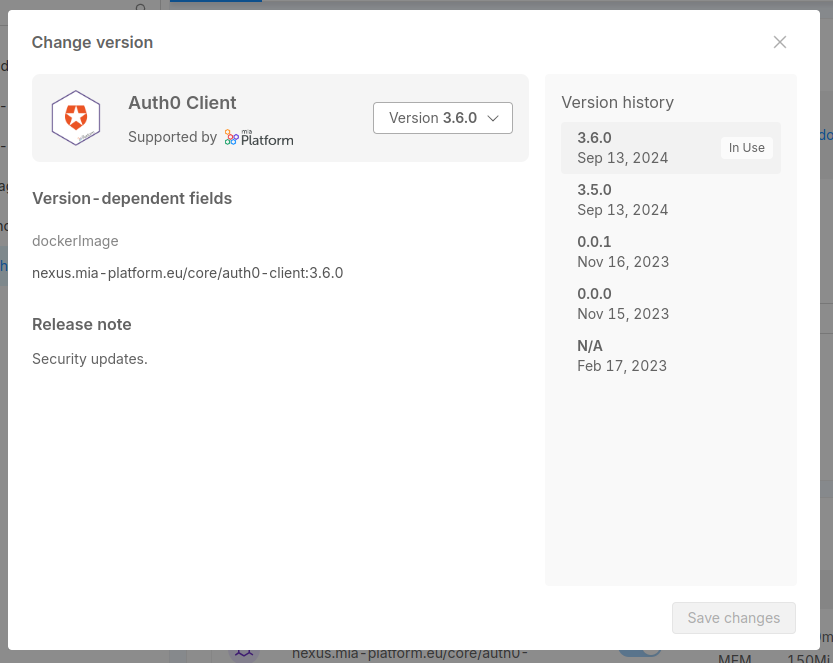
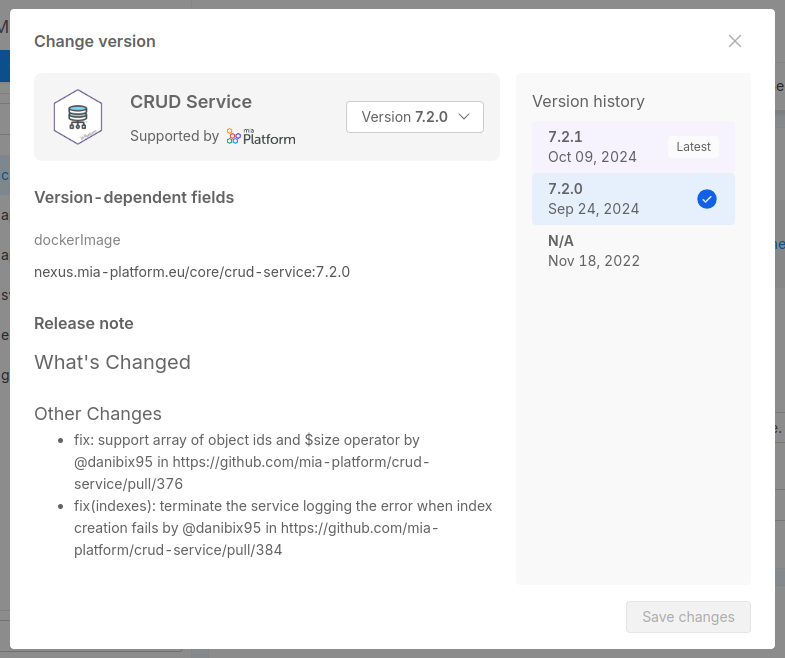
docs: marketplace versioning and latest (#1738)
* feat: update marketplace section about the versioning and latest notifications

* fix: typos and errors

* feat: update services and custom-resources page

* fix: updated imgs in api-design

* fix: updated imgs in custom-resources

* Apply suggestions from code review

* fix: applied suggestions from code review

* updated custom-resources images

* Update docs/marketplace/add_to_marketplace/add_item_by_type/add_plugin.md

---------

diff --git a/docs/marketplace/add_to_marketplace/add_item_by_type/add_plugin.md b/docs/marketplace/add_to_marketplace/add_item_by_type/add_plugin.md
@@ -63,7 +63,6 @@ Here below are listed all the properties that you can provide for each microserv
   - **`readOnly`** (default: false): a boolean that represents if you can change the value of the variable through the Console
   - **`description`** (optional): a brief description of the variable
   - **`managedBy`** (optional): a string that represents the Console section that manages the variable. For now, it can be empty or `fast-data`. It only works used in combination with the `readOnly` property set to `true`.
-    
   - **`valueType`** (default: `plain`): the field controls whether the value of the variable is provided by the user or by a Kubernetes resource; at the moment, *Plain Text*, *Config Maps*, *Secrets* and *Downward API* are supported.
   
   When `valueType: plain`, the following field is **required**:
@@ -300,7 +299,7 @@ You should receive a success response similar to this one:
 
   OBJECT ID                 ITEM ID             STATUS   
 
-  66423781fdd3d6dd3ca62b7b  mongodb-reader  Created 
+  66423781fdd3d6dd3ca62b7b  mongodb-reader      Created 
 ```
 
 You just created your plugin, which is now available on your `Company Marketplace`.
@@ -309,7 +308,16 @@ You just created your plugin, which is now available on your `Company Marketplac
 
 You can update a Custom Resource Marketplace item by using the same `miactl marketplace apply` explained before, by including an updated file (either in `json` or `yaml` format).
 
-While non-versioned items can be modified in place without any limitation (except for `itemId` and `tenantId` that identifies the resource to update), versioned Marketplace Custom Resource have some fields that cannot be modified. For more information, refer to the [dedicated section on the "Create your Company Marketplace" page](/marketplace/add_to_marketplace/create_your_company_marketplace.md#editing-a-versioned-resource).
+While non-versioned items can be modified in place without any limitation (except for `itemId` and `tenantId` that identifies the resource to update), versioned Marketplace Custom Resource have some fields that cannot be modified.
+
+If you want to do so, you must create a new version of the resource: for more information, refer to the [dedicated section on the _Create your Company Marketplace_ page](/marketplace/add_to_marketplace/create_your_company_marketplace.md#how-to-create-a-new-version-of-your-resource).
 
 Also remember that versioned elements does not allow the update of the `dockerImage` field, since the value is automatically tied with the released version: if you need to change the Docker Image, you should create a new version of the resource.
+
+:::info
+Versions are not mandatory but highly recommended to avoid overwriting existing resources.
+
+Also, it is required to follow the [Semantic Versioning](https://semver.org/) convention when creating new versions: this convention is used to group the different versions of the same marketplace items and determine the _latest_ version that will be used by the Console to help the user to determine the best version to use and be notified of further updates.
+:::
+
 Of course you can do that always with `miactl marketplace apply` by using the same `itemId` and the same `tenantId` but with a new `name` inside the `version` field.

diff --git a/docs/marketplace/add_to_marketplace/add_item_by_type/add_custom_resource.md b/docs/marketplace/add_to_marketplace/add_item_by_type/add_custom_resource.md
@@ -13,7 +13,7 @@ Custom Resources are basically defined by two fields:
 
 A Custom Resource can be created from scratch or from an existing Marketplace item and added to your Project. Custom Resources on the Marketplace follow the base Marketplace item schema defined in the ["Create your Company Marketplace" page](/marketplace/add_to_marketplace/create_your_company_marketplace.md#how-to-configure-a-new-item), with the _type_ field set to `custom-resource`.
 
-Custom resource items in the Marketplace also support _versioning_, allowing you to update a resource without overwriting its previous versions. 
+Custom resource items in the Marketplace also support _versioning_, allowing you to update a resource without overwriting its previous versions.
 
 ## Custom Resource definition
 
@@ -291,7 +291,13 @@ resources:
 Please note that:
 
 - the `type: custom-resource` is required to specify that this resource is a Custom Resource
-- the `version` property is included, to define this item as a version `1.0.0` with a specific release note: versions are not mandatory but highly suggested to avoid overwriting existing resources.
+- the `version` property is required and must be composed by its _name_, e.g. to define this item as a version `1.0.0`, and the _releaseNote_ to highlight the latest updates of said release
+
+:::info
+Versions are not mandatory but highly recommended to avoid overwriting existing resources.
+
+Also, it is required to follow the [Semantic Versioning](https://semver.org/) convention when creating new versions: this convention is used to group the different versions of the same marketplace items and determine the _latest_ version that will be used by the Console to help the user to determine the best version to use and be notified of further updates.
+:::
 
 ### Publish the new Custom Resource
 
@@ -317,9 +323,10 @@ You just created your custom resource, which is now available on your `Company M
 
 You can update a Custom Resource Marketplace item by using the same `miactl marketplace apply` command explained before, by including an updated file (either in `json` or `yaml` format).
 
-When updating a Custom Resource, it is recommended to create a new version of the Marketplace item to avoid overwriting the existing one. The new version should contain the updated resource definition and a release note detailing the changes.
+When updating a Custom Resource, it is recommended to create a new version of the Marketplace item to avoid overwriting the existing one.
+The new version should contain the updated resource definition and a release note detailing the changes.
 
-In case you are trying to update a versioned Marketplace Custom Resource, remember that only few fields can be modified.
+In case you are trying to overwrite a versioned Marketplace Custom Resource, remember that only few fields can be modified.
 For more information, refer to the [dedicated section on the "Create your Company Marketplace" page](/marketplace/add_to_marketplace/create_your_company_marketplace.md#editing-a-versioned-resource).
 
 #### Update non-versioned Custom Resources

diff --git a/docs/marketplace/add_to_marketplace/create_your_company_marketplace.md b/docs/marketplace/add_to_marketplace/create_your_company_marketplace.md
@@ -139,6 +139,22 @@ Also, to provide continuity to the definition of the other versions of the same 
 
 You can create a new version of a Marketplace item either if there is already that resource on the Marketplace without a version. In that case the non-versioned item will be still available in the Console, where will be shown with a *N/A* value for the version.
 
+If there are multiple version of the same item, one of these versions will be used as *latest version*.
+This is the version that will be used as a reference when you will create a new microservice or a new resource choosing the item from the Marketplace.
+
+The latest version is going to be the one with the highest version, according to the [Semantic Versioning rules](https://semver.org/).
+We suggest to follow these guidelines when assigning a version to your item, in order to easily determine which one is the latest.
+
+ ![List of marketplace versions](./img/version_list.png)
+
+::: info
+If you have the *Marketplace Notifications* [feature preview](/console/project-configuration/project-settings.md#feature-preview) enabled you will be informed if one or more of your microservices attached to a Marketplace item have updates.
+
+You can find a list of all the updates at the bottom of the sidebar menu with the list of all your services, as well as inside the detail page of the service that can be updated.
+
+ ![Design page with notifications of new Marketplace versions](./img/versions_notifications.png)
+:::
+
 #### Editing a versioned resource
 
 Versioned resources are defined to be immutable, to avoid that updates might overwrite the previous configuration. However, it is possible to edit in case we need to update changes to their metadata (e.g. the release note or the description of the marketplace item - because of typos or other reasons).
@@ -150,11 +166,12 @@ Editing a versioned resource is possible via `miactl`, however the following fie
 - the `name` property inside `version` object
 - the `resources` property, that includes the specific resource definition
 
-Since marketplace items are defined by the `itemId`, the `tenantId` and the `version` name, attempt to modifying one of these three properties will cause the creation of a completely new marketplace item, completely separated from the previous one.
+Since marketplace items are defined by the `itemId`, the `tenantId` and the `version` name, attempt to modifying one of these three properties will cause the creation of a new marketplace item, completely separated from the previous one.
 
 Attemping to modify the `resources` property will cause an error, and the item will not be updated. In that case, you need to create a new version of the item.
 
 Also, the following fields are editable only in case the permission `marketplace.root.manage` has been granted to the user:
+
 - `supportedBy`
 - `supportedByImage`
 - `publishOnMiaDocumentation`

diff --git a/docs/marketplace/add_to_marketplace/manage_marketplace_items.md b/docs/marketplace/add_to_marketplace/manage_marketplace_items.md
@@ -218,7 +218,6 @@ To highlight the potentialities of `Acme.Js` and introduce your users to the new
 
 </details>
 
-
 Notice that the `image` and `supportedByImage` objects are populated with local paths to images: make sure the images exist and that their path is correct.
 
 To create the items on the Marketplace, open up a terminal in directory where the files are placed and run this command:
@@ -271,9 +270,7 @@ Further information about the `apply` command can be found in the [dedicated doc
 ### Update an item
 
 :::info
-
 You need to have *Company Owner* or *Project Administrator* role at Company level to perform this action
-
 :::
 
 Imagine now that you noticed that the description of "My Awesome Service" is not correct and you want to change it.
@@ -283,6 +280,7 @@ First of all, download and save the latest version of the item configuration:
 ```sh
 miactl marketplace get ITEM_ID > myAwesomeService.json
 ```
+
 where `ITEM_ID` is an alphanumerical id of the Marketplace item.  
 If you don't know the item id, use the `miactl marketplace list` command to list all the Marketplace Items. You can easily locate the one of interest by looking for its name.
 
@@ -310,6 +308,16 @@ You will see the outcome of the operation in the command output:
 ```
 
 The changes are now reflected to the Console.
+
+### Update of versioned items
+
+Marketplace items of type *Plugin* and *Custom Resources* require a *version* object to determine the differences of the plugin definition over time.
+In case you need to update the definition, you can update a versioned item only if you need to change some base fields (more details on the [Create your Company Marketplace](/marketplace/add_to_marketplace/create_your_company_marketplace.md) page), otherwise you can do so by creating a new version.
+
+You can create a new version of the plugin via [miactl](/cli/miactl/10_overview.md) by simply executing the [`apply`](/cli/miactl/30_commands.md#apply) command, in the same way as explained above, ensuring that the `itemId` and `tenantId` are the same but with a new version, and of course the `resource` object updated.
+
+As explained in the [Create your Company Marketplace](/marketplace/add_to_marketplace/create_your_company_marketplace.md) page, we suggest to follow the [Semantic Versioning](https://semver.org/) convention when defining the version of your item.
+This will help you to keep track of the changes you made to the item over time, and help you understand the best version to use when configuring your project.
 
 ### Delete an item
 

diff --git a/docs/console/design-your-projects/custom-resources/custom-resources.md b/docs/console/design-your-projects/custom-resources/custom-resources.md
@@ -81,6 +81,8 @@ A modal window will open, where you can see the available versions of the Custom
 
 Inside the modal you can also see the `apiVersion` and the `kind` of the Custom Resource of the selected version, to give you a better idea of the configuration you are selecting.
 
+A small tag will also inform you which is the *latest* version of the plugin, the latest stable version released.
+
 In case you need to update the `apiVersion` and the `kind` fields manually, completely changing the configuration of the Custom Resource, you can do so by clicking the *Detach from Marketplace* button on the menu:this will detach the Custom Resource from the original Marketplace item, causing the resource to be fully editable.
 However, you will not be able to use the Marketplace versioning feature anymore, and you will not be notified by any update made by the Marketplace creator of that item.
 
@@ -89,6 +91,14 @@ A version labelled with *N/A* refers to a Marketplace item that did not include 
 This means that it has been created before the support of versioning in the Marketplace was implemented.
 
 However, it does not mean that this version is not supported anymore, or that it is less secure: check out the available versions and choose the one that fits your needs. In case of further questions, please contact the Marketplace item creator.
+:::
+
+:::info
+If you have the *Marketplace Notifications* [feature preview](/console/project-configuration/project-settings.md#feature-preview) enabled you will be informed in the detail page if one or more of your microservices attached to a Marketplace item have updates with an icon next to the version name.
+
+![Detail of the Resource badge, with the icon to notify a new version available](img/marketplace-notification.png)
+
+This is the best way to be aware of updates of your Marketplace plugins.
 :::
 
 ### Delete a Custom Resource

diff --git a/docs/development_suite/api-console/api-design/services.md b/docs/development_suite/api-console/api-design/services.md
@@ -123,11 +123,22 @@ If the microservice has been created from a versioned Marketplace plugin, the *D
 
 ![Detail of a service generated from a versioned Marketplace plugin](img/versioned-service.png)
 
+:::info
+If you have the *Marketplace Notifications* [feature preview](/console/project-configuration/project-settings.md#feature-preview) enabled you will be informed in the detail page if one or more of your microservices attached to a Marketplace item have updates with an icon next to the version name.
+
+![Detail of the Microservice badge, with the icon to notify a new version available](img/marketplace-notification.png)
+
+This is the best way to be aware of updates of your Marketplace plugins.
+:::
+
 In case you want to manually update the Docker Image Name, you can click on the right-side menu button where a menu will pop-up.
 From there you can either *select a different version* or *detach the microservice from the Marketplace plugin*.
 
 Selecting a different version will open a modal window where all the versions available for that Marketplace plugin will be listed.
+
 You can use this modal window also to get more information about the versions, such as the release note and the Docker Image name referenced, plus also to be aware of versions that are flagged with the *Coming Soon* badge.
+
+A small tag will also inform you which is the *latest* version of the plugin, the latest stable version released.
 
 From there you can select one of the available versions in order to update the Docker Image.
 
